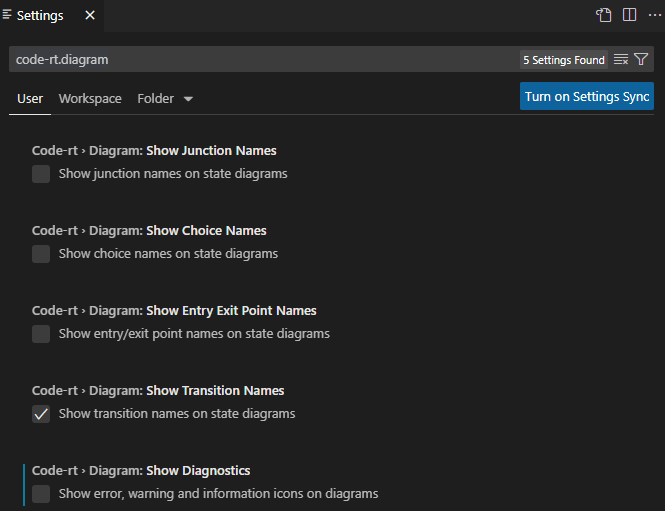
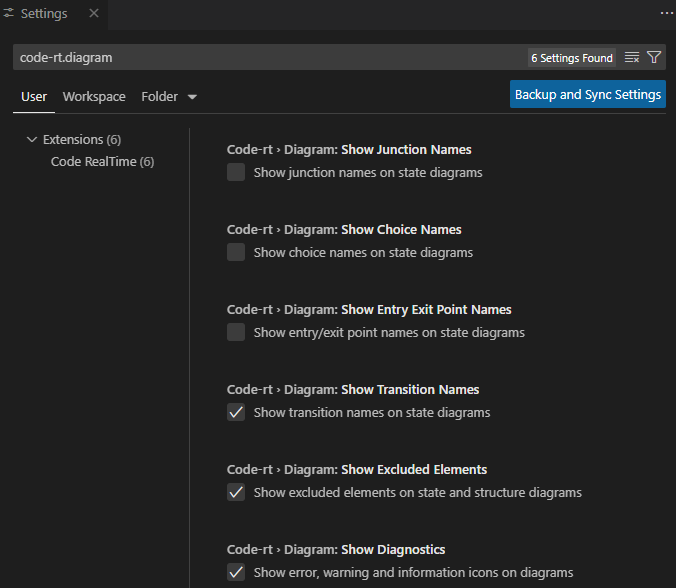
Doc updates for 3.0.1

diff --git a/art-samples/TrafficLightWeb/webapp/public/js/main.js b/art-samples/TrafficLightWeb/webapp/public/js/main.js
@@ -59,7 +59,7 @@ $(function () {
         }
     });
 
-    $('#ped_button').click(function() {
+    $('#ped_button').unbind('click').bind('click', function (e) {
         if(isBrowser){
             $.get('./ped_button', function () {
 

diff --git a/docs-sources/art-lang/index.md b/docs-sources/art-lang/index.md
@@ -1349,7 +1349,7 @@ In the example we can see that `D` overrides functions from the base C++ classes
 !!! example
     You can find a sample application where a capsule inherits from both another capsule and from C++ classes [here]({$vars.github.repo$}/tree/main/art-comp-test/tests/capsule_cpp_inheritance).
 
-We can also see an example of a state machine redefinition. The initial transition `_Initial` of `B`'s state machine is redefined in `D`'s state machine so that it targets state `DS` instead of state `BS`. In the state diagram of `D` the state `BS` and the initial pseudo state are drawn with gray color and dashed outline, to show that they are inherited. The transition `_Initial` is also drawn with dashed outline, but with a different line style ("dash-dot-dot"), and with a green label to show that it's redefining the inherited initial transition. The state `BS2` is excluded in `D`'s state machine. In state diagrams excluded elements are shown with a "crossed" background.
+We can also see an example of a state machine redefinition. The initial transition `_Initial` of `B`'s state machine is redefined in `D`'s state machine so that it targets state `DS` instead of state `BS`. In the state diagram of `D` the state `BS` and the initial pseudo state are drawn with gray color and dashed outline, to show that they are inherited. The transition `_Initial` is also drawn with dashed outline, but with a different line style ("dash-dot-dot"), and with a green label to show that it's redefining the inherited initial transition. The state `BS2` is excluded in `D`'s state machine. In state diagrams excluded elements are shown with a "crossed" background or line-style.
 
 ![](images/sm_redefinition.png)
 

diff --git a/docs-sources/working-with-art/diagrams.md b/docs-sources/working-with-art/diagrams.md
@@ -150,7 +150,7 @@ In this pop-up menu you also find convenient commands for [navigating to related
 Certain properties on Art elements control how they will appear in a diagram. Currently it's possible to configure which color to use for most elements in diagrams. See the [color](../art-lang/index.md#color) property for more information.
 
 ### Diagram Filters
-To avoid cluttered diagrams with too many text labels, certain information is by default hidden. If you click in the background of the diagram, the Properties view will show various filters that you can turn on or off for showing or hiding such additional information. Here is an example of the filters available for a state diagram:
+To avoid cluttered diagrams with too many text labels, certain information is by default hidden. If you click in the background of the diagram, the Properties view will show various Appearance filters that you can turn on or off for showing or hiding such additional information. Here is an example of the filters available for a state diagram:
 
 ![](images/diagram-filters.png)
 